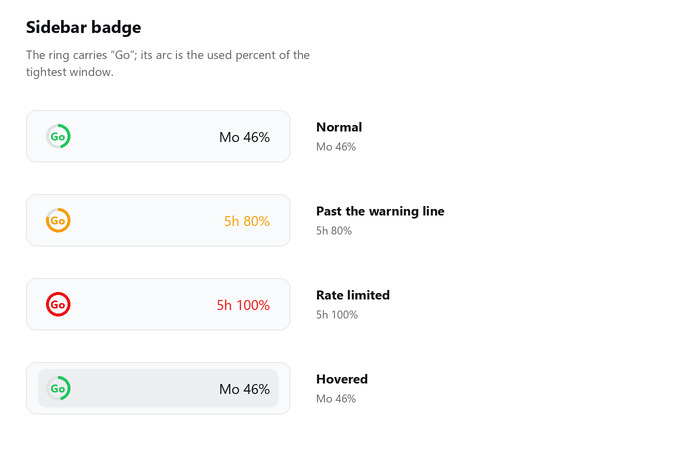
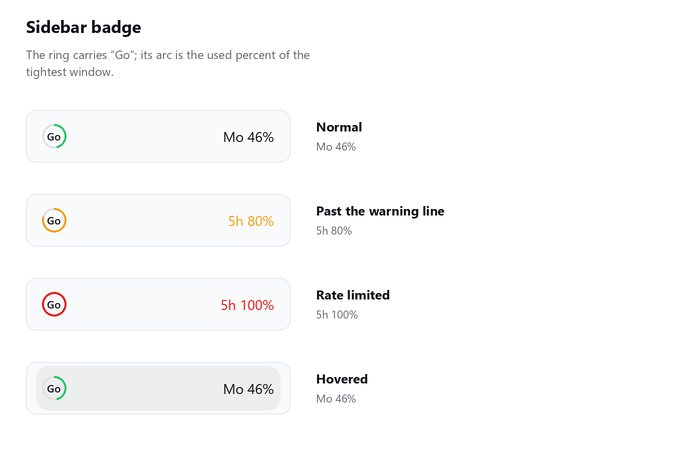
fix: 冷启动不再停在「—」，徽标与账号行对齐
- 客户端在没有数据、且失败是暂时性时以 1 秒间隔补读（最多 60 次），
  不再让徽标干等 30 秒的固定节奏；「…」与「—」区分「正在读」和「读不到」
- Host 手上没有任何数据时把重试间隔封顶 60 秒，不再被指数退避推到 10 分钟后
- 徽标行改为与下方账号行同一组几何（44px / padding 6px / radius 12px），
  环与账号头像左对齐，折叠态收成 36x36
- 环描边 3px -> 2px，中心字 11px 粗体 -> 10.5px 半粗，字色改用正文色

版本 0.1.0 -> 0.1.1。

diff --git a/lib/client.js b/lib/client.js
@@ -30,15 +30,50 @@ window.__ModuleLoader__.load({
     const READ_INTERVAL_MS = 30_000
 
     /**
+     * 冷启动加速重试。
+     *
+     * Host 的首次上游拉取是异步的：DSH 刚起来时页面往往先渲染完，此时读到的是
+     * `pending`（一个数字都没有）。若仍按 30 秒的常规节奏等，徽标会长时间停在「—」，
+     * 而用户只要把鼠标划过徽标就会触发一次补读、数字立刻出现——现象上就成了
+     * 「必须动一下鼠标才加载」。
+     *
+     * 所以「还没有任何数字、且失败是暂时性的」时改用 1 秒节奏，最多 60 次；
+     * 之后回到常规节奏。读的是 Host 内存快照，不打上游，这个频率是零成本的。
+     */
+    const FAST_RETRY_MS = 1_000
+    const FAST_RETRY_LIMIT = 60
+
+    /**
+     * 徽标行的盒子。刻意与下方账号行（`settings.launcher` 里的 AccountMenu）取同一组数字，
+     * 两行才会在视觉上成对：
+     *
+     *   账号行容器  width: calc(100% + 4px); margin: 4px -2px
+     *   账号按钮    height: 44px; padding: 6px; gap: 8px; border-radius: 12px
+     *   头像        24px 圆
+     *
+     * 由此头像左缘落在 x = 12 − 2 + 6 = 16（12 是侧边栏 root 的左右内边距）。
+     * 徽标照抄这组数字，环的左缘同样落在 16，两行左对齐。
+     */
+    const ROW_HEIGHT = 44
+    const ROW_PADDING = 6
+    const ROW_GAP = 8
+    /** 折叠态下账号行收成 36×36 的方块，徽标跟着收。 */
+    const RAIL_SIZE = 36
+
+    /**
      * 环的几何。环内嵌的是品牌字「Go」——品牌不翻译，所以它不走字典。
      *
-     * 尺寸由几何决定，不能随意改小：内径 = 直径 − 2×描边。
-     * 24px / 3px → 内径 18px；「Go」在 11px 时宽约 14px，左右各余 2px。
-     * 若缩到 16px / 2.5px，内径仅 11px，「Go」最大只能取到 7px 而无法辨认。
+     * 内径 = 直径 − 2×描边，中心字必须留出左右余量，否则 24px 下会糊成一团：
+     * 24px / 3px → 内径 18px，「Go」11px 粗体宽约 14.6px，左右各只剩 1.7px；
+     * 24px / 2px → 内径 20px，「Go」10.5px 半粗宽约 13.5px，左右各余 3.2px。
+     * 所以描边取 2px、字号取 10.5px——环细一点，字反而更清楚。
+     * 再往下缩（16px / 2.5px）内径只有 11px，中心字无法辨认。
      */
     const RING_SIZE = 24
-    const RING_STROKE = 3
-    const RING_TEXT_SIZE = 11
+    const RING_STROKE = 2
+    const RING_TEXT_SIZE = 10.5
+    /** 略收紧字距，「Go」两字在环内更居中。 */
+    const RING_TEXT_TRACKING = -0.2
 
     /** 语言命名空间。交给槽位注册后，框架会注入随语言切换自动刷新的 `t`。 */
     const NS = 'opencode-go-quota'
@@ -245,6 +280,22 @@ window.__ModuleLoader__.load({
     }
 
     /**
+     * 这次快照值不值得提速重读。
+     *
+     * 只有「一个数字都还没有」且失败是暂时性的才值得：`pending` 是 Host 首次上游
+     * 拉取还没回来，`network` 是本地路由还没就绪或页面刚起来，两者都会自己好。
+     * 凭证没配、key 失效、没订阅、响应缺字段这类是确定性错误，重试再快也不会变，
+     * 交给常规节奏即可——否则只是空转。
+     * @param body - 本次读到的快照，失败时为 null。
+     * @returns 是否应缩短下一次读取间隔。
+     */
+    function needsFastRetry(body) {
+      if (body && body.usage) return false
+      const state = (body && body.state) || 'network'
+      return state === 'pending' || state === 'network'
+    }
+
+    /**
      * 环形进度，中心内嵌品牌字「Go」。
      *
      * 环因此同时承担两件事：进度（弧）与标识（中心字）。代价是弧相对环身变细、
@@ -292,7 +343,10 @@ window.__ModuleLoader__.load({
             dominantBaseline: 'central',
             fontSize: RING_TEXT_SIZE + 'px',
             fontWeight: 600,
-            fill: color,
+            letterSpacing: RING_TEXT_TRACKING + 'px',
+            // 字用正文色而不是弧的颜色：24px 下绿字压在绿弧上会糊成一团，
+            // 状态信号交给弧去承担，字只负责「这是哪个插件」。
+            fill: 'var(--dsw-alias-label-primary)',
             // SVG 文字默认不继承页面字体，显式继承侧边栏的字体栈。
             style: { fontFamily: 'inherit' },
           },
@@ -535,32 +589,62 @@ window.__ModuleLoader__.load({
           const res = await fetch(STATE_PATH + (force ? '?refresh=1' : ''), { headers: { Accept: 'application/json' } })
           const body = await res.json()
           if (mounted.current) setData(body)
+          // 把快照回给调度器，由它决定下一次是 1 秒还是 30 秒。
+          return body
         } catch (error) {
           if (mounted.current) {
             setData((prev) => ({ ...prev, ok: false, state: 'network', error: String((error && error.message) || error) }))
           }
+          return null
         } finally {
           if (mounted.current) setRefreshing(false)
         }
       }, [])
 
+      // 自调度而不是 setInterval：冷启动阶段要能临时提速（见 FAST_RETRY_MS）。
       // 隐藏时（最小化窗口、切到后台标签）跳过这轮读取——Host 有自己 5 分钟的
       // 上游轮询，前端只是读缓存，没必要在看不见的时候空转。
       useEffect(() => {
         mounted.current = true
-        void read(false)
-        const tick = () => {
-          if (document.visibilityState === 'hidden') return
-          void read(false)
+        let alive = true
+        let timer = null
+        let fastLeft = FAST_RETRY_LIMIT
+
+        const schedule = (delay) => {
+          if (!alive) return
+          timer = setTimeout(tick, delay)
         }
-        const timer = setInterval(tick, READ_INTERVAL_MS)
+
+        const tick = async () => {
+          if (!alive) return
+          if (document.visibilityState === 'hidden') {
+            schedule(READ_INTERVAL_MS)
+            return
+          }
+          const body = await read(false)
+          if (!alive) return
+          if (fastLeft > 0 && needsFastRetry(body)) {
+            fastLeft -= 1
+            schedule(FAST_RETRY_MS)
+          } else {
+            schedule(READ_INTERVAL_MS)
+          }
+        }
+
+        // 回到前台时把加速预算补满：切走再切回来，多半又是一次「还没数据」。
         const onVisibility = () => {
-          if (document.visibilityState === 'visible') void read(false)
+          if (document.visibilityState !== 'visible') return
+          fastLeft = FAST_RETRY_LIMIT
+          if (timer !== null) clearTimeout(timer)
+          void tick()
         }
+
+        void tick()
         document.addEventListener('visibilitychange', onVisibility)
         return () => {
+          alive = false
           mounted.current = false
-          clearInterval(timer)
+          if (timer !== null) clearTimeout(timer)
           document.removeEventListener('visibilitychange', onVisibility)
         }
       }, [read])
@@ -632,7 +716,12 @@ window.__ModuleLoader__.load({
       const worst = worstWindow(usage, t)
       const hasData = worst !== null
       const color = hasData ? toneOf(worst.percent, data.thresholds) : 'var(--dsw-alias-state-idle-primary)'
-      const value = hasData ? worst.short + ' ' + worst.percent + '%' : '—'
+      // 「…」是「正在读」，「—」是「没有数据」。冷启动那几秒不该看起来像坏了。
+      const value = hasData
+        ? worst.short + ' ' + worst.percent + '%'
+        : data.state === 'pending'
+          ? '…'
+          : '—'
       const collapsed = props && props.wide === false
       // 数据不可用时压低不透明度：数字照给，但一眼看得出它不是当前的。
       const stale = hasData && data.stale === true
@@ -663,7 +752,18 @@ window.__ModuleLoader__.load({
         'div',
         {
           ref: rootRef,
-          style: { position: 'relative', display: 'flex', width: '100%', minWidth: 0 },
+          // 盒子与账号行的 triggerRow 对齐：向右各多出 2px，抵消账号行那对负外边距。
+          // 折叠态下账号行收成 36×36 的方块，这里跟着收，否则会撑破 56px 的轨道。
+          style: collapsed
+            ? { position: 'relative', display: 'flex', flex: 'none', width: RAIL_SIZE + 'px', margin: '8px 0 10px' }
+            : {
+                position: 'relative',
+                display: 'flex',
+                flex: 'none',
+                width: 'calc(100% + 4px)',
+                margin: '0 -2px',
+                minWidth: 0,
+              },
           onMouseEnter: () => {
             setHovered(true)
             openNow()
@@ -690,17 +790,20 @@ window.__ModuleLoader__.load({
             style: {
               display: 'flex',
               alignItems: 'center',
-              gap: '8px',
+              justifyContent: collapsed ? 'center' : undefined,
+              gap: ROW_GAP + 'px',
+              boxSizing: 'border-box',
               width: '100%',
+              height: (collapsed ? RAIL_SIZE : ROW_HEIGHT) + 'px',
               minWidth: 0,
               cursor: 'pointer',
               border: 'none',
-              // 与侧边栏其他行（设置、面板）保持一致——它们都有 hover 底色。
+              // 与侧边栏其他行（设置、账号、面板）保持一致——它们都有 hover 底色。
               // 内联样式写不了 :hover，所以用状态驱动。
               background: hovered ? 'var(--dsw-alias-interactive-bg-hover)' : 'transparent',
               color: 'var(--dsw-alias-label-primary)',
-              borderRadius: 'var(--dsw-radius-md, 8px)',
-              padding: '7px 8px',
+              borderRadius: 'var(--dsw-radius-md, 12px)',
+              padding: collapsed ? 0 : ROW_PADDING + 'px',
               fontSize: '14px',
               lineHeight: '22px',
               textAlign: 'left',

diff --git a/lib/index.js b/lib/index.js
@@ -155,9 +155,24 @@ export function apply(ctx, config) {
     const baseMs = Math.max(30, Number(cfg.pollIntervalSec) || 300) * 1000
     const maxMs = Math.max(baseMs, (Number(cfg.maxBackoffSec) || 1800) * 1000)
 
+    /**
+     * 一个数字都还没拿到时的重试上限。
+     *
+     * 退避是为了不打扰上游，但界面此刻是完全空的：首次拉取撞上开机时的网络抖动，
+     * 指数退避会把下一次重试推到 10 分钟后，用户对着一个「—」等十分钟，还会以为
+     * 插件坏了。所以暂时性失败且手上没有任何数据时，把间隔压到 60 秒。
+     * 确定性失败（凭证没配、key 失效、没订阅）不在此列——它们不会自己好。
+     */
+    const emptyRetryMs = 60 * 1000
+    const isTransient = (state) =>
+      state === 'pending' || state === 'network' || state === 'rate-limited' || state.startsWith('http-5')
+
     const schedule = () => {
       if (!alive) return
-      const delay = Math.min(maxMs, baseMs * Math.pow(2, failures))
+      const backoff = Math.min(maxMs, baseMs * Math.pow(2, failures))
+      const delay = snapshot.usage === null && isTransient(snapshot.state)
+        ? Math.min(backoff, emptyRetryMs)
+        : backoff
       timer = setTimeout(run, delay)
     }
 

diff --git a/CHANGELOG.md b/CHANGELOG.md
@@ -6,6 +6,19 @@
 
 ## [Unreleased]
 
+## [0.1.1] - 2026-10-10
+
+### Fixed
+
+- **冷启动时徽标停在「—」不动**，必须把鼠标划过徽标、或等上 30 秒才出现数字。Host 的首次上游拉取是异步的，页面往往先渲染完，此时读到的是「还没有数据」；客户端却要等 30 秒的固定节奏才读第二次，而悬停会立刻补读一次——现象上就成了「必须动一下鼠标」。现在没有数据且失败是暂时性时，客户端改用 1 秒间隔补读（最多 60 次），之后回到常规节奏。
+- **首次拉取失败会锁死 10 分钟**。退避公式为 `pollIntervalSec × 2^失败次数`，首次失败即 600 秒；若再叠加开机时网络尚未就绪，用户会长时间对着空白界面。现在手上没有任何数据且失败是暂时性时，重试间隔封顶 60 秒。凭证未配置、key 失效、未订阅这类确定性错误仍按原退避——它们不会自己好。
+
+### Changed
+
+- 徽标行的行高、内边距与圆角改为与下方账号行取同一组数字，环与账号头像左对齐；折叠态收成 36×36 的方块，与账号行的轨道形态一致。
+- 环的描边由 3px 收细到 2px，中心字由 11px 粗体改为 10.5px 半粗并收紧字距，字色改用正文色。24px 直径下原内径仅 18px，而「Go」11px 粗体宽 14.6px，左右各余 1.7px，字与弧同为绿色时会糊成一团。
+- 没有任何数据时徽标显示「…」（正在读取），与「—」（读不到）区分开。
+
 ## [0.1.0] - 2026-10-08
 
 首个版本。
@@ -29,5 +42,6 @@
 - **数据经同源 HTTP 路由传递**。`dsh-api-remotes` 的客户端命名空间集为构建期固定列表，插件无法扩展。
 - **Host 半边不依赖 DSH 内部包**。插件安装在 profile 目录下，而 `CredentialRef` 在运行时为普通字符串。
 
-[Unreleased]: https://github.com/lidong19941207/dsh-opencode-go-quota/compare/v0.1.0...HEAD
+[Unreleased]: https://github.com/lidong19941207/dsh-opencode-go-quota/compare/v0.1.1...HEAD
+[0.1.1]: https://github.com/lidong19941207/dsh-opencode-go-quota/compare/v0.1.0...v0.1.1
 [0.1.0]: https://github.com/lidong19941207/dsh-opencode-go-quota/releases/tag/v0.1.0

diff --git a/README.en.md b/README.en.md
@@ -111,6 +111,7 @@ All options live under the `config` key of `cordis.patch.yml`:
 - **Window tag** names the tightest window (`5h` / `Wk` / `Mo` in English, `5h` / `周` / `月` in Chinese)
 - When the sidebar is collapsed only the ring remains; the "Go" inside keeps it recognisable
 - Hovering shows a row background, matching the sidebar's other entries
+- Row height, padding and corner radius reuse the account row's numbers, so the ring lines up with the account avatar below it
 
 ### Hover card
 
@@ -226,7 +227,7 @@ The upstream has no daily window. Deriving one locally would require accumulatin
 No. The console page offers one, but it is served through a login session rather than the API key, so a plugin cannot reach it. This plugin reports the three aggregate percentages.
 
 **How often does the data update?**
-The host polls upstream every 5 minutes (adjustable via `pollIntervalSec`), and the client reads the local snapshot every 30 seconds. Hovering the card re-reads once, and the refresh button at the card's bottom right fetches upstream immediately.
+The host polls upstream every 5 minutes (adjustable via `pollIntervalSec`), and the client reads the local snapshot every 30 seconds. While it has no data at all — right after a start — the client retries every second instead (up to 60 times), so the badge fills itself in without any manual trigger. Hovering the card re-reads once, and the refresh button at the card's bottom right fetches upstream immediately.
 
 **It says "Credential OPENCODE_GO_API_KEY is not configured"?**
 DSH's credential service has no such name. Check that the opencode-go provider key is configured in your model settings.

diff --git a/README.md b/README.md
@@ -111,6 +111,7 @@ dsh plugin --profile desktop add /绝对路径/dsh-opencode-go-quota
 - **窗口标识**为当前最紧的窗口（中文 `5h` / `周` / `月`，英文 `5h` / `Wk` / `Mo`）
 - 侧边栏折叠时仅显示环，环内的「Go」保证它仍可辨识
 - 悬停时整行显示底色，与侧边栏其他条目一致
+- 行高、内边距、圆角与下方账号行取同一组数字，环与账号头像左对齐
 
 ### 悬停卡片
 
@@ -226,7 +227,7 @@ Host 测试需要真实凭证，按以下顺序获取：
 不能。控制台页面提供该明细，但通过登录会话而非 API key 获取，插件无法访问。本插件展示三个窗口的聚合百分比。
 
 **数据多久更新一次？**
-Host 每 5 分钟向上游拉取一次（可通过 `pollIntervalSec` 调整），客户端每 30 秒读取一次本地快照。悬停展开卡片时会补读一次，卡片右下角的刷新按钮会立即向上游发起请求。
+Host 每 5 分钟向上游拉取一次（可通过 `pollIntervalSec` 调整），客户端每 30 秒读取一次本地快照。刚启动、还没有任何数据时，客户端改用 1 秒间隔补读（最多 60 次），所以徽标会自己出现，不需要手动触发。悬停展开卡片时会补读一次，卡片右下角的刷新按钮会立即向上游发起请求。
 
 **提示「凭证 OPENCODE_GO_API_KEY 未配置」？**
 说明 DSH 的凭证服务中没有该名称。请检查模型设置中 opencode-go provider 的 key 是否已配置。
